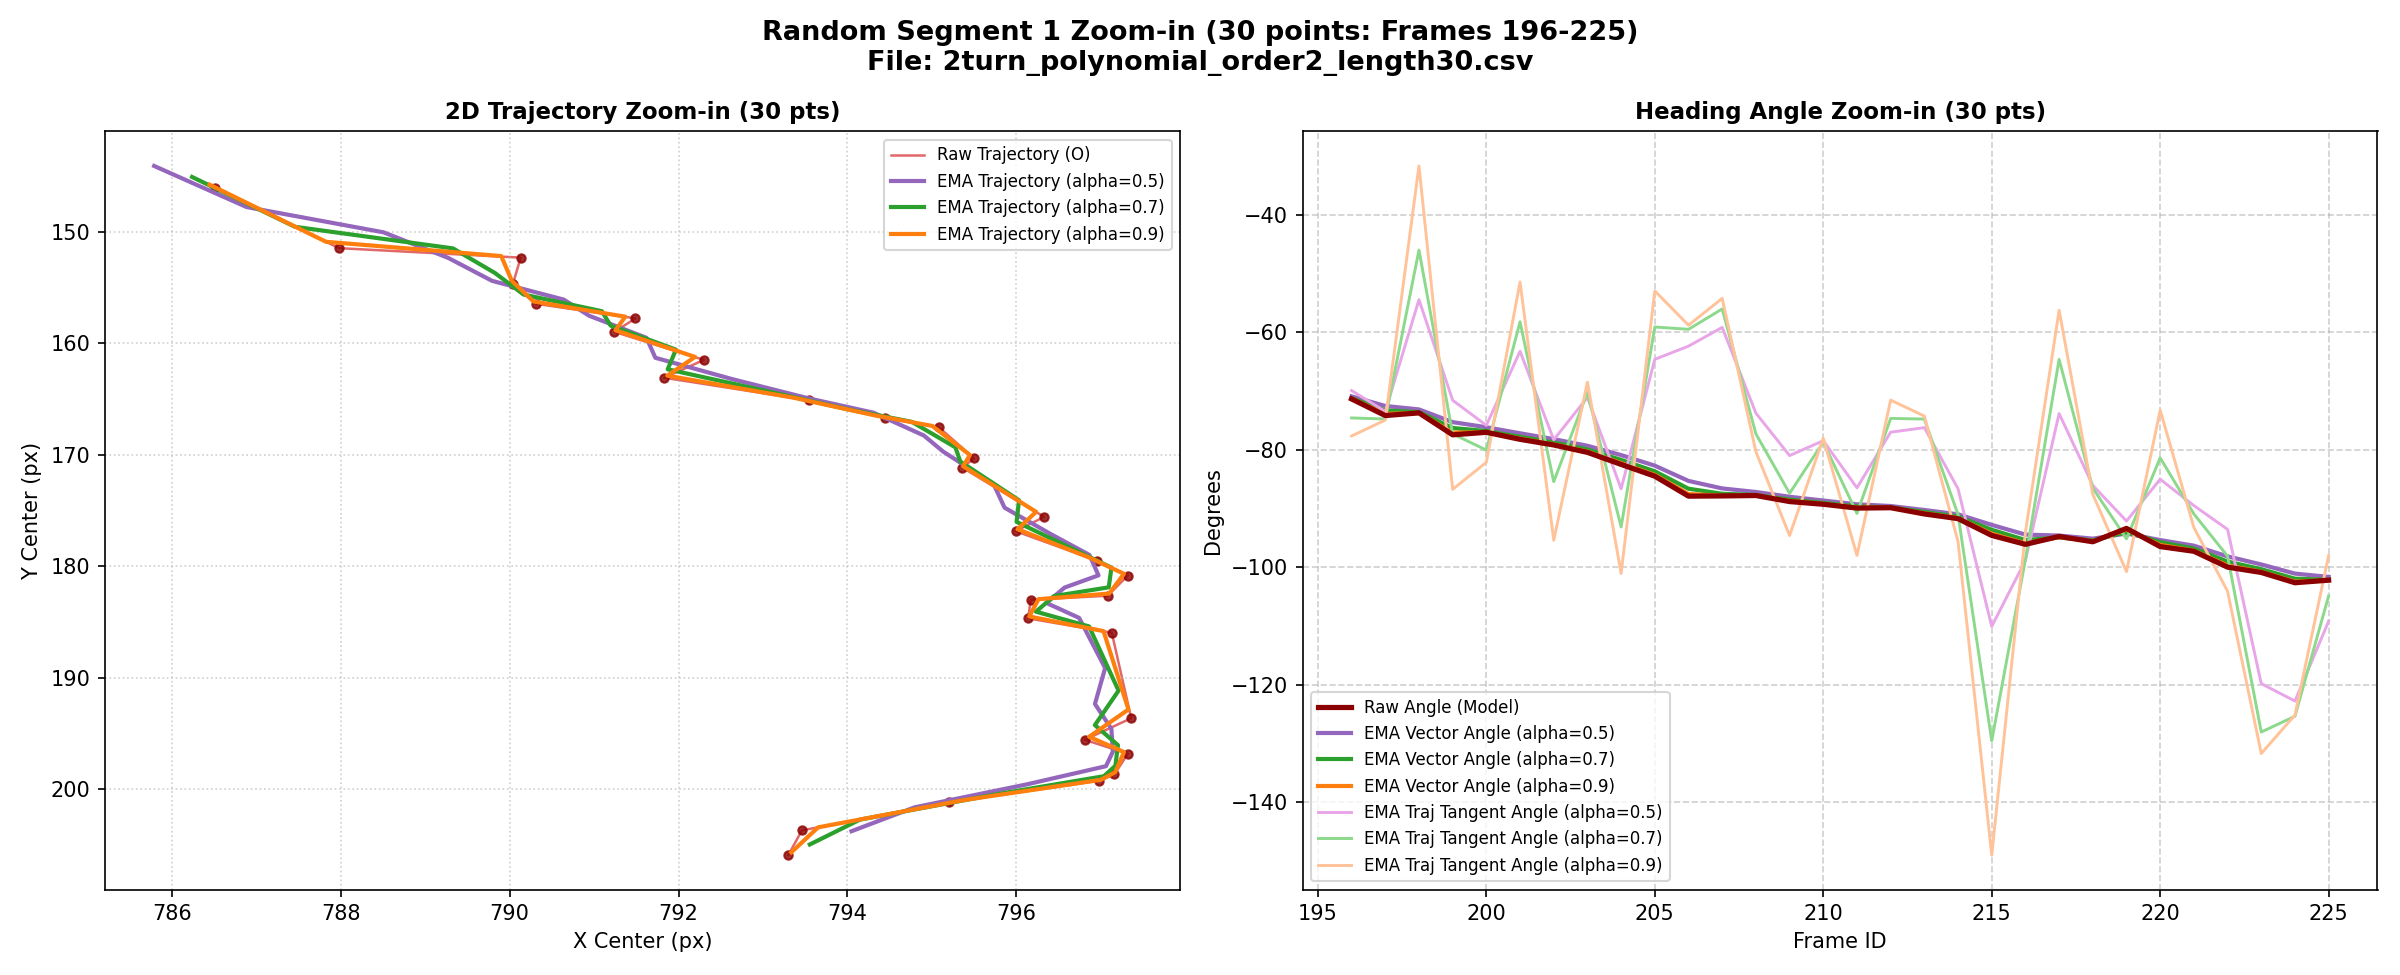
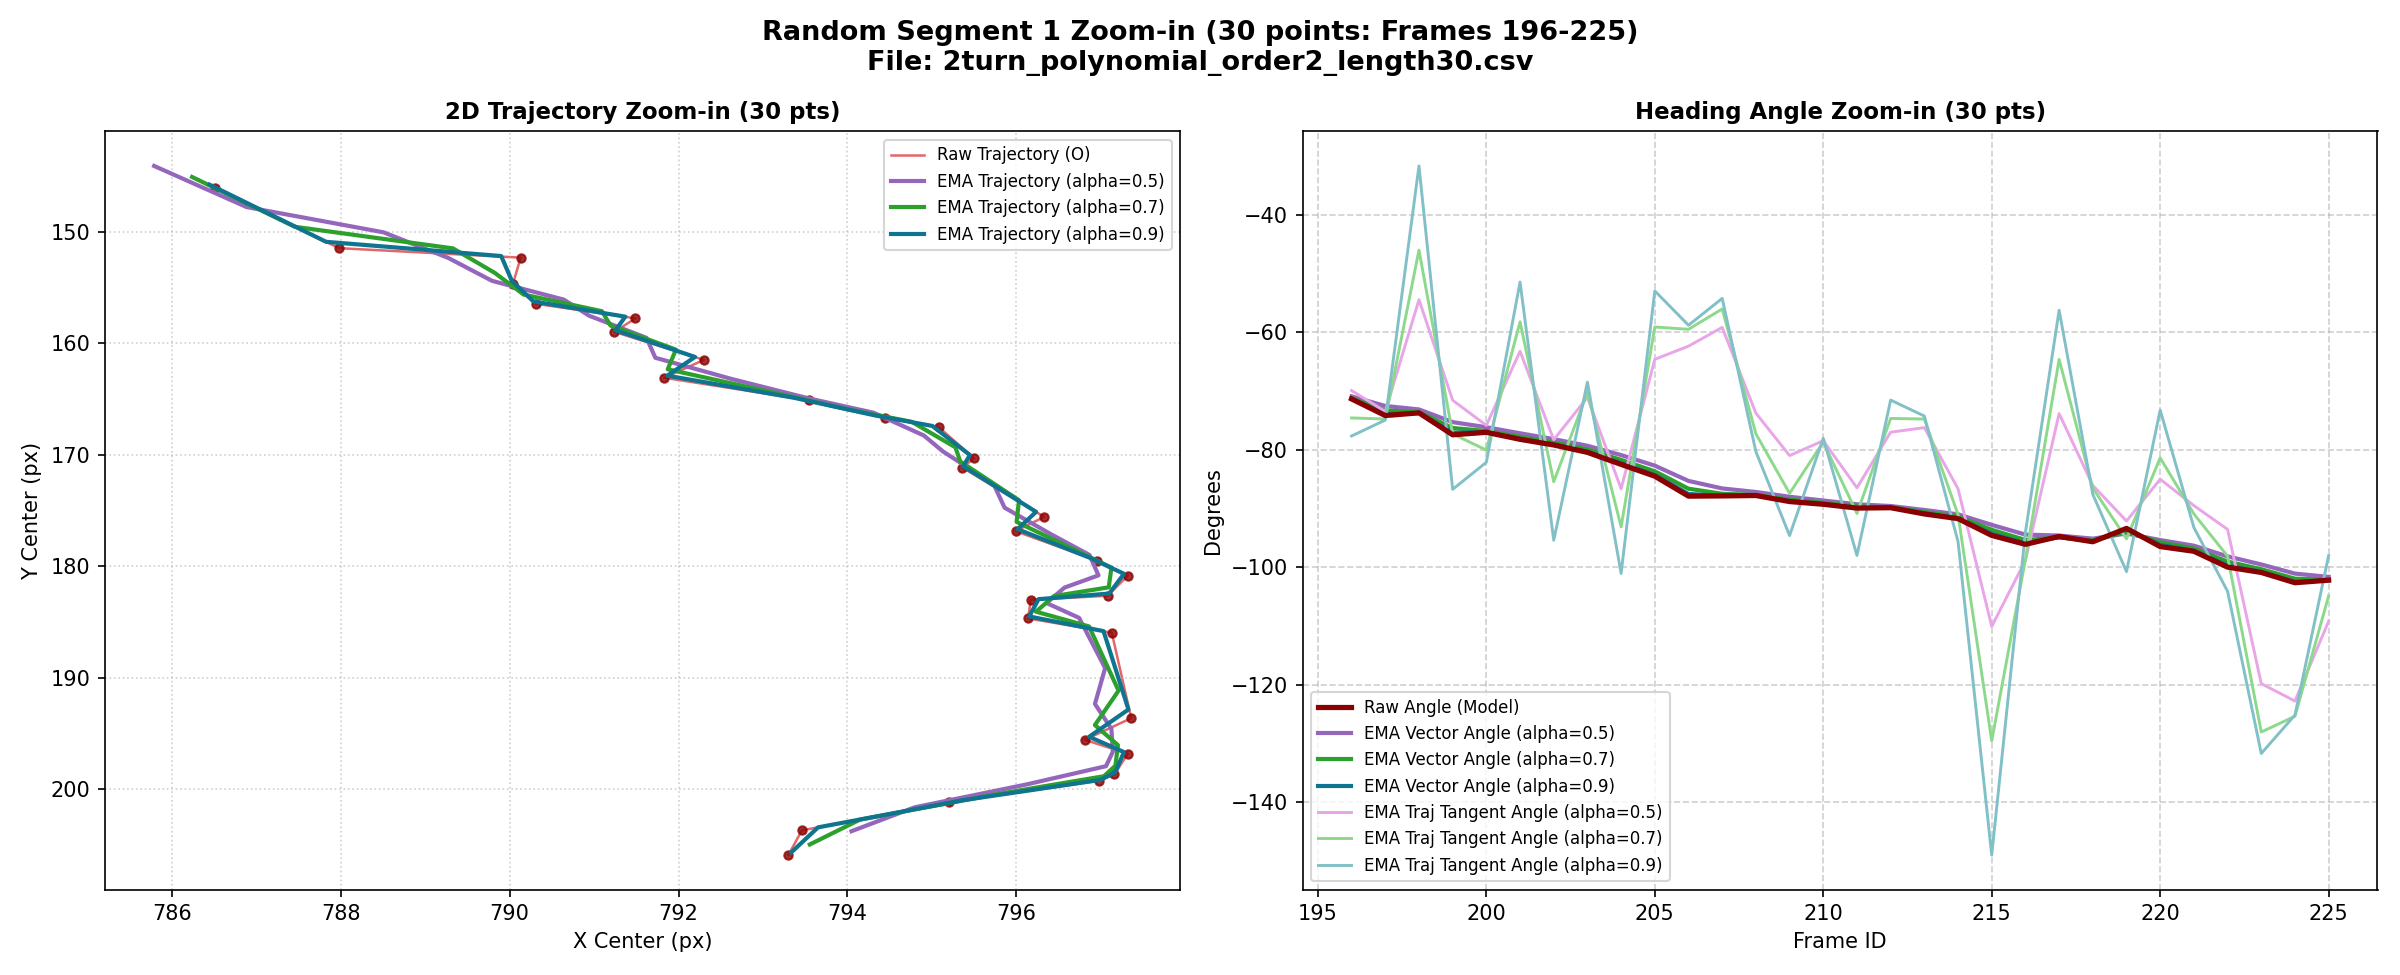
use deep matte teal color (#0e7490) for alpha 0.9 to avoid glare and bright reflection

diff --git a/260808/tools/plot_ema_clean.py b/260808/tools/plot_ema_clean.py
@@ -84,19 +84,19 @@ def run_clean_ema_experiments(csv_file: str, seg_length: int = 30, num_segments:
     # ONLY ALPHAS 0.5, 0.7, 0.9
     alphas = [0.5, 0.7, 0.9]
 
-    # Distinct High-Contrast Color Palette per Alpha Family:
-    # - Alpha 0.5: Tím đậm (Smoothed) & Tím/Hồng nhạt (Unsmoothed Traj Angle)
-    # - Alpha 0.7: Xanh lá đậm (Smoothed) & Xanh lá nhạt (Unsmoothed Traj Angle)
-    # - Alpha 0.9: Cam đậm (Smoothed) & Vàng/Cam nhạt (Unsmoothed Traj Angle)
+    # Deep, Matte, High-Contrast Color Palette per Alpha Family:
+    # - Alpha 0.5: Tím đậm (Smoothed) & Tím/Hồng dịu (Unsmoothed Traj Angle)
+    # - Alpha 0.7: Xanh lá cây mờ/đậm (Smoothed) & Xanh lá nhạt dịu (Unsmoothed Traj Angle)
+    # - Alpha 0.9: Xanh Ngọc Teal đậm mờ (Smoothed) & Xanh Ngọc nhạt dịu (Unsmoothed Traj Angle)
     alpha_colors = {
         0.5: '#9467bd', # Deep Purple
         0.7: '#2ca02c', # Emerald Green
-        0.9: '#ff7f0e'  # Vibrant Dark Orange
+        0.9: '#0e7490'  # Deep Matte Teal (Khôn bị chói, dịu mắt, tương phản cao)
     }
     traj_angle_colors = {
-        0.5: '#e8a5e8', # Light Pink/Purple (Same purple family as alpha 0.5)
-        0.7: '#8cd98c', # Light Mint Green (Same green family as alpha 0.7)
-        0.9: '#ffc299'  # Light Peach/Orange (Same orange family as alpha 0.9)
+        0.5: '#e8a5e8', # Soft Pink/Purple
+        0.7: '#8cd98c', # Soft Mint Green
+        0.9: '#82c0c7'  # Soft Light Teal
     }
 
     # 1. Compute EMA streams for alphas 0.5, 0.7, 0.9
@@ -182,7 +182,7 @@ def run_clean_ema_experiments(csv_file: str, seg_length: int = 30, num_segments:
     plt.close(fig_time)
 
     # ─────────────────────────────────────────────────────────────────────────
-    # SECTION 4 IMAGES: DOUBLE SMOOTH (High Contrast Color Palette: Purple, Green, Orange)
+    # SECTION 4 IMAGES: DOUBLE SMOOTH (Teal 0.9, Green 0.7, Purple 0.5)
     # ─────────────────────────────────────────────────────────────────────────
     fig_traj4, ax_traj4 = plt.subplots(figsize=(10, 8), dpi=150)
     ax_traj4.plot(valid_df['x_center'], valid_df['y_center'], color='#d62728', linewidth=1.2, linestyle='-', alpha=0.6, label='Raw Trajectory (O)', zorder=1)
@@ -203,18 +203,15 @@ def run_clean_ema_experiments(csv_file: str, seg_length: int = 30, num_segments:
     plt.close(fig_traj4)
 
     # Time Series for Section 4:
-    # - Same Alpha shares SAME color family (Purple, Green, Orange):
-    #   * Dark Tone: EMA Smooth Traj Angle (2nd pass smoothed)
-    #   * Light Tone: EMA Traj Angle (1st pass unsmoothed)
     fig_time4, ax_ang4 = plt.subplots(figsize=(13, 7), dpi=150)
     ax_ang4.plot(valid_df['frame_id'], raw_unwrapped, color='#8b0000', linewidth=2.5, linestyle='-', alpha=1.0, label='Raw Angle (Model)', zorder=10)
 
-    # 1st Pass Tangent Angle (Unsmoothed Traj Angle - Light Tone of the Alpha Color Family)
+    # 1st Pass Tangent Angle (Light tone of alpha color family)
     for a in alphas:
         ema_traj_ang_unwrapped = align_phase(np.degrees(np.unwrap(np.radians(valid_df[f'ema_traj_angle_a{a}']))) , raw_unwrapped)
         ax_ang4.plot(valid_df['frame_id'], ema_traj_ang_unwrapped, color=traj_angle_colors[a], linewidth=1.4, linestyle='-', label=f'EMA Traj Angle (Raw alpha={a})')
 
-    # 2nd Pass EMA Smooth Trajectory Tangent Angle (Smoothed Traj Angle - Dark Tone of the Alpha Color Family)
+    # 2nd Pass EMA Smooth Tangent Angle (Dark tone of alpha color family)
     for a in alphas:
         ema_smooth_traj_unwrapped = align_phase(np.degrees(np.unwrap(np.radians(valid_df[f'ema_smooth_traj_angle_a{a}']))) , raw_unwrapped)
         ax_ang4.plot(valid_df['frame_id'], ema_smooth_traj_unwrapped, color=alpha_colors[a], linewidth=2.0, linestyle='-', label=f'EMA Smooth Traj Angle (alpha={a})')
@@ -289,9 +286,9 @@ def run_clean_ema_experiments(csv_file: str, seg_length: int = 30, num_segments:
             fig_seg.savefig(out_seg_img, dpi=150)
             plt.close(fig_seg)
 
-            # Segment plot for Section 4 (High Contrast Alpha Color Families: Purple, Green, Orange)
+            # Segment plot for Section 4 (Matte Deep Colors: Purple 0.5, Green 0.7, Teal 0.9)
             fig_seg4, (ax_st4, ax_sa4) = plt.subplots(1, 2, figsize=(16, 6.5), dpi=150)
-            fig_seg4.suptitle(f'Random Segment {idx_seg+1} Zoom-in (Frames {frame_start}-{frame_end}) - High Contrast Color Families\nFile: {csv_path.name}', fontsize=13, fontweight='bold')
+            fig_seg4.suptitle(f'Random Segment {idx_seg+1} Zoom-in (Frames {frame_start}-{frame_end}) - Matte Deep Color Palette\nFile: {csv_path.name}', fontsize=13, fontweight='bold')
 
             ax_st4.plot(seg['x_center'], seg['y_center'], color='#d62728', linewidth=1.2, linestyle='-', alpha=0.7, label='Raw Trajectory (O)', zorder=1)
             ax_st4.scatter(seg['x_center'], seg['y_center'], color='#8b0000', s=16, marker='o', alpha=0.8, zorder=2)
@@ -317,7 +314,7 @@ def run_clean_ema_experiments(csv_file: str, seg_length: int = 30, num_segments:
                 seg_ema_smooth_traj_unwrapped = align_phase(np.degrees(np.unwrap(np.radians(seg[f'ema_smooth_traj_angle_a{a}']))) , seg_raw_unwrapped)
                 ax_sa4.plot(seg['frame_id'], seg_ema_smooth_traj_unwrapped, color=alpha_colors[a], linewidth=2.0, linestyle='-', label=f'EMA Smooth Traj Angle (alpha={a})')
 
-            ax_sa4.set_title(f'Heading Angle Zoom-in (Alpha Families: Purple 0.5, Green 0.7, Orange 0.9)', fontsize=11, fontweight='bold')
+            ax_sa4.set_title(f'Heading Angle Zoom-in (Alpha Families: Purple 0.5, Green 0.7, Teal 0.9)', fontsize=11, fontweight='bold')
             ax_sa4.set_xlabel('Frame ID')
             ax_sa4.set_ylabel('Degrees')
             ax_sa4.grid(True, linestyle='--', alpha=0.6)
@@ -328,11 +325,11 @@ def run_clean_ema_experiments(csv_file: str, seg_length: int = 30, num_segments:
             fig_seg4.savefig(out_seg4_img, dpi=150)
             plt.close(fig_seg4)
 
-    print(f"[SUCCESS] Đã lưu thành công bộ đồ thị Section 3 & Section 4 với các trường màu đối lập (Tím, Xanh lá, Cam) cho file {csv_path.name}")
+    print(f"[SUCCESS] Đã lưu thành công bộ đồ thị Section 3 & Section 4 với bảng màu dịu mắt (Tím, Xanh lá, Xanh Ngọc Teal) cho file {csv_path.name}")
 
 
 if __name__ == "__main__":
-    parser = argparse.ArgumentParser(description="Selective & Double Smooth EMA Plotting with High Contrast Color Palette")
+    parser = argparse.ArgumentParser(description="Selective & Double Smooth EMA Plotting with Deep Matte Color Palette")
     parser.add_argument("csv_file", type=str, help="Path to input benchmark CSV file")
     parser.add_argument("--seg-len", type=int, default=30, help="Segment length (default 30)")
     parser.add_argument("--num-segs", type=int, default=3, help="Number of random segments (default 3)")

diff --git a/260808/Readme2.md b/260808/Readme2.md
@@ -6,7 +6,7 @@
 - Bổ sung đường biểu đồ góc tiếp tuyến được tính trực tiếp từ tọa độ mượt EMA của quỹ đạo.
 - Tạm thời ẩn đường mượt `EMA Angle` của raw_angle.
 - Thực hiện làm mượt EMA Lần 2 trên đường góc tiếp tuyến tính từ các đường mượt EMA quỹ đạo với hệ số alpha đồng bộ tương ứng.
-- **Tối ưu bảng màu đối lập cao (High Contrast Color Palette):** Sử dụng 3 họ màu phân biệt rõ rệt **Tím ($\alpha=0.5$), Xanh lá ($\alpha=0.7$), Cam ($\alpha=0.9$)** giúp dễ quan sát và không bị nhầm lẫn giữa các đường.
+- **Tối ưu bảng màu sâu dịu mắt (Deep Matte Palette):** Sử dụng 3 họ màu phân biệt rõ rệt **Tím ($\alpha=0.5$), Xanh lá ($\alpha=0.7$), Xanh Ngọc Teal ($\alpha=0.9$)** – giúp màu sắc dịu mắt, không bị chói phản xạ và cực kỳ dễ quan sát.
 
 ---
 
@@ -105,10 +105,10 @@ python tools/plot_ema_clean.py benchmark/3turn_polynomial_order2_length30.csv --
 
 ### 4.1. Biểu đồ Smooth EMA Lần 2 trên Góc Tiếp tuyến Quỹ đạo
 
-Tạm thời ẩn đường mượt góc `EMA Angle` trực tiếp từ raw_angle của model. So sánh đường **Raw Angle (Model)** với **Góc tiếp tuyến chưa mượt Lần 2 (`EMA Traj Angle`)** và **Góc tiếp tuyến đã mượt Lần 2 (`EMA Smooth Traj Angle`)** với **bảng màu đối lập rõ rệt cho từng hệ số alpha**:
+Tạm thời ẩn đường mượt góc `EMA Angle` trực tiếp từ raw_angle của model. So sánh đường **Raw Angle (Model)** với **Góc tiếp tuyến chưa mượt Lần 2 (`EMA Traj Angle`)** và **Góc tiếp tuyến đã mượt Lần 2 (`EMA Smooth Traj Angle`)** với **bảng màu dịu mắt, tương phản rõ rệt**:
 - **Alpha = 0.5 (Trường màu Tím):** `EMA Traj Angle` (Tím/Hồng nhạt `#e8a5e8`), `EMA Smooth Traj Angle` (Tím đậm `#9467bd`).
 - **Alpha = 0.7 (Trường màu Xanh lá):** `EMA Traj Angle` (Xanh lá nhạt `#8cd98c`), `EMA Smooth Traj Angle` (Xanh lá đậm `#2ca02c`).
-- **Alpha = 0.9 (Trường màu Cam):** `EMA Traj Angle` (Cam/Vàng nhạt `#ffc299`), `EMA Smooth Traj Angle` (Cam đậm `#ff7f0e`).
+- **Alpha = 0.9 (Trường màu Xanh Ngọc Teal):** `EMA Traj Angle` (Xanh Ngọc nhạt `#82c0c7`), `EMA Smooth Traj Angle` (Xanh Ngọc Teal đậm `#0e7490`).
 
 #### a) Leanbot chạy 3 vòng (`3turn`)
 ![3turn Double Smooth Trajectory](benchmark/3turn_ema_double_smooth_2d_trajectory.png)
